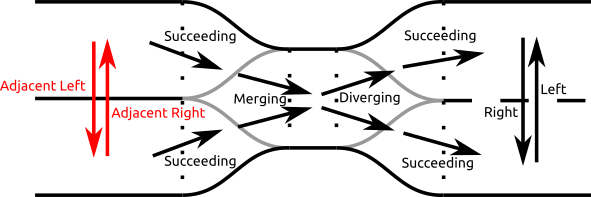
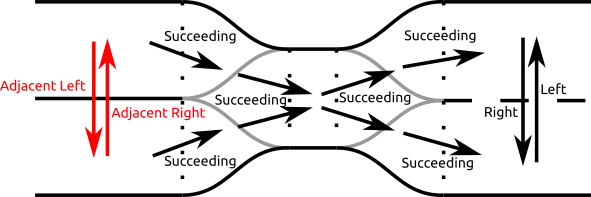
Update documentation

Changed region(s): [[0.5482, 0.4569, 0.7005, 0.5482], [0.3655, 0.4569, 0.4873, 0.5482]]

diff --git a/lanelet2_routing/README.md b/lanelet2_routing/README.md
@@ -33,7 +33,7 @@ Lanelets that are part of a routing graph can have relations to each other:
 The possible relations are:
     * `left`, `right` (reachable via lane change)
     * `adjacent left`, `adjacent right` (lanelets that are neighbours but not reachable via lane change)
-    * `succeeding` (1:1 relation between two subsequent lanelets), `merging` (n:1 relation between lanelets), `diverging` (1:n relation between lanelets)
+    * `succeeding` (relation between two subsequent lanelets)
     * `conflicting` (intersecting lanelets/areas)
     * `area` (reachable area to lanelet/area relation)
 
